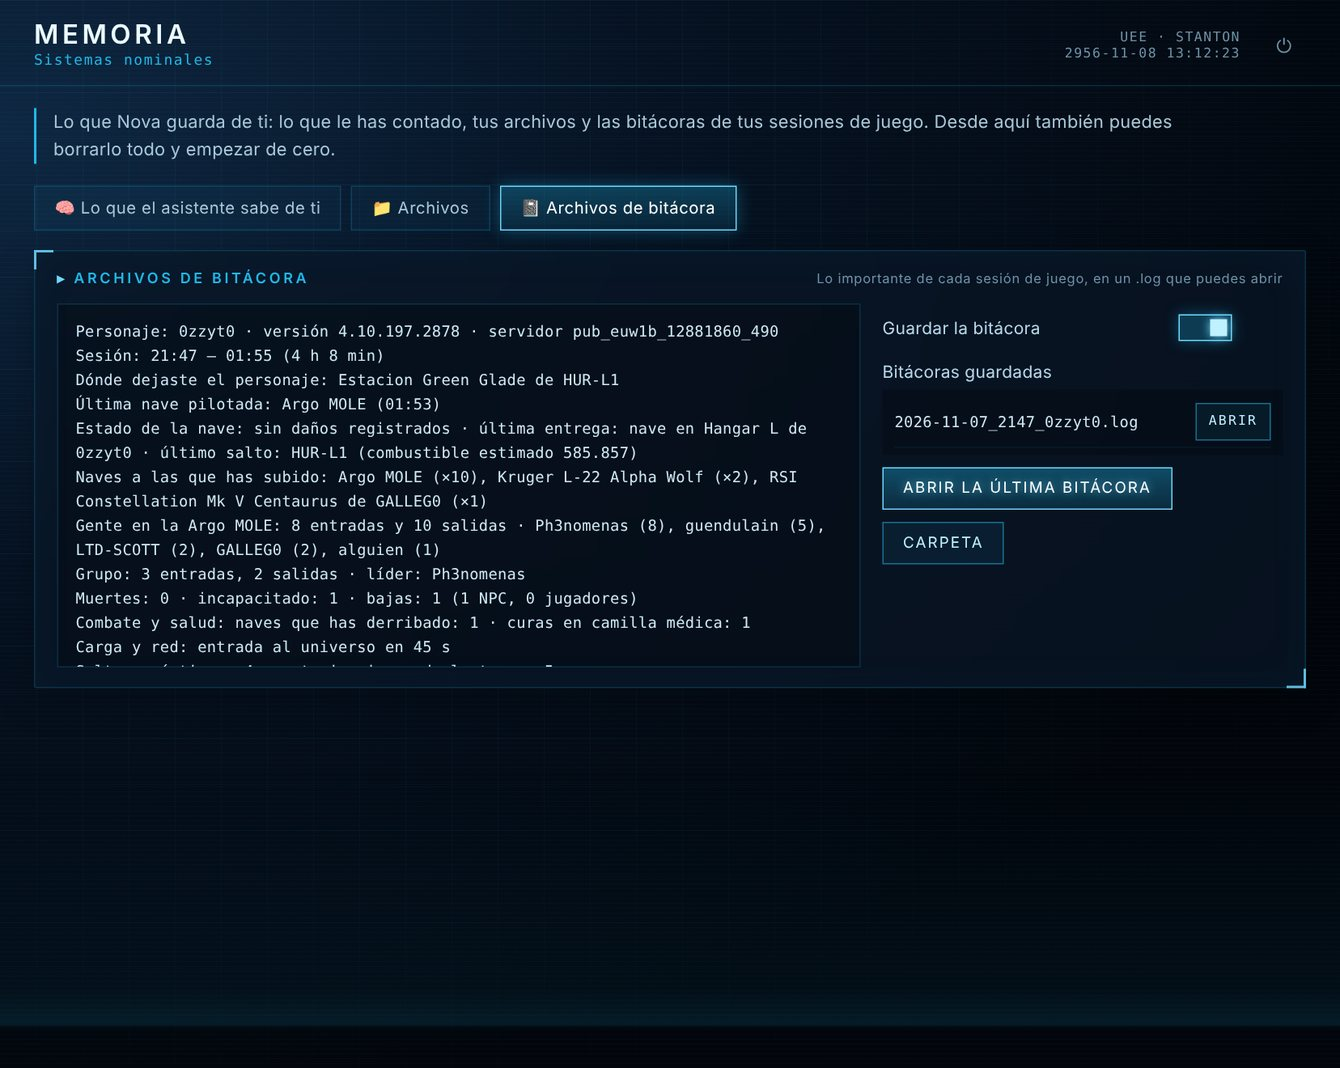
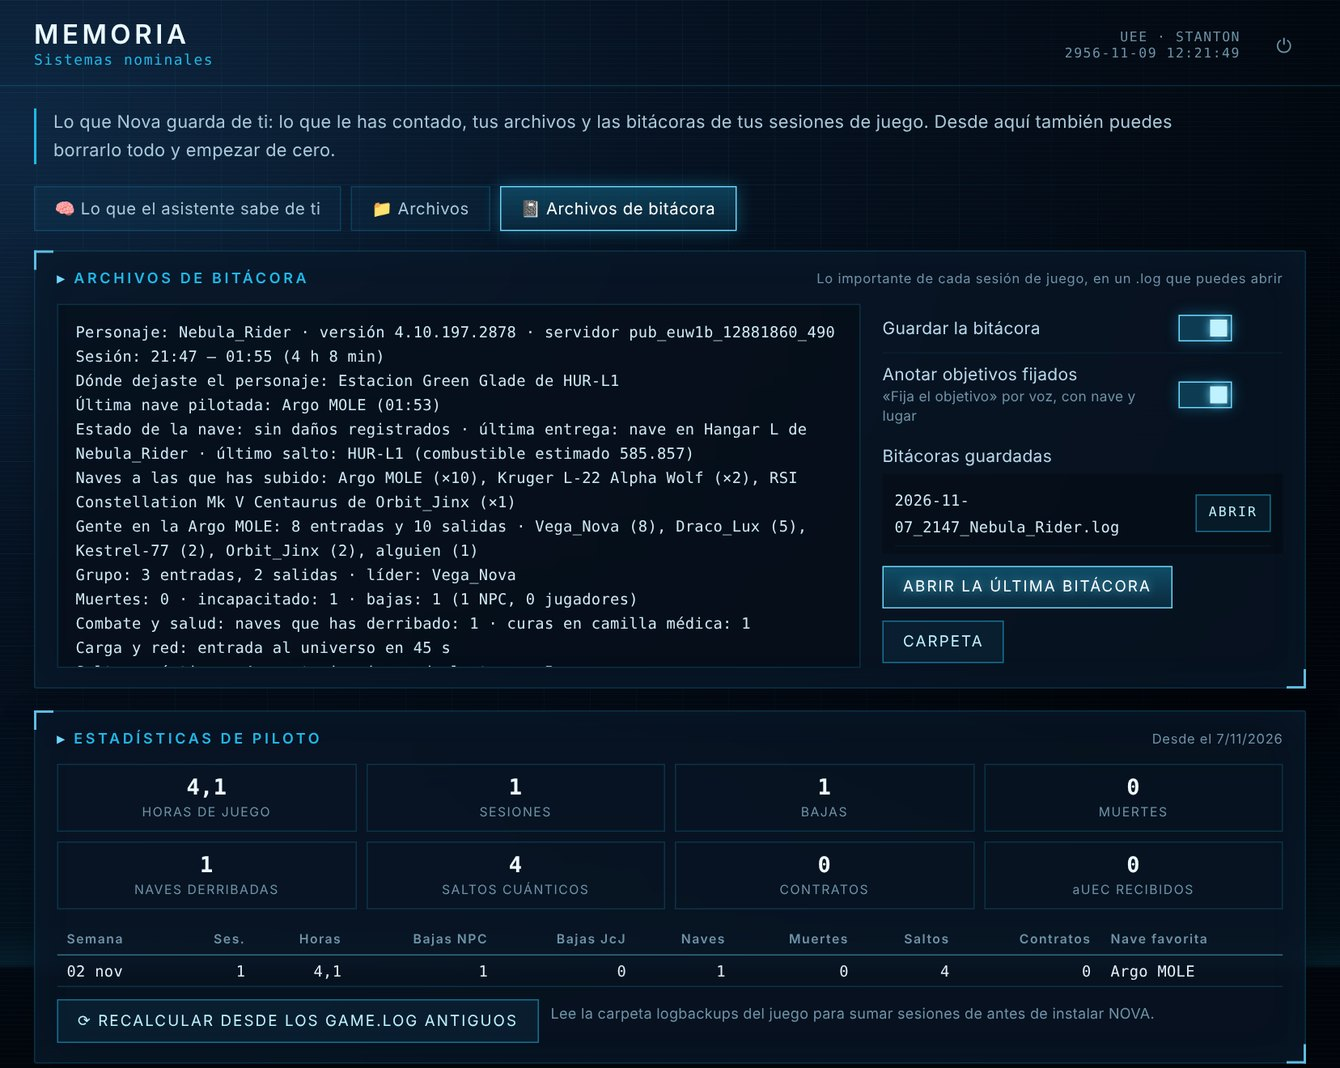
Fichas con datos ocultos ([REDACTED]), frases de entrenamiento al azar y ejemplos ficticios
- Si RSI muestra un dato del jugador o de su organización como [REDACTED], la ficha lo marca
  como oculto y Nova avisa en voz de qué información está oculta.
- Entrenamiento del oído: 3 frases al azar sobre Star Citizen (una con muchas vocales seguidas,
  otra con ñ, ll, y, b, v, g, j, n y m, y otra que mezcla ambas).
- Documentación y capturas con jugadores de ejemplo ficticios.

Claude-Session: https://claude.ai/code/session_0187yjVjvMt5N21DENDTMtCJ

diff --git a/core/rsi.py b/core/rsi.py
@@ -72,6 +72,20 @@ def _labelled(page: str, label: str) -> str:
     return ""
 
 
+HIDDEN_TEXT = "Oculto (aparece como [REDACTED] en RSI)"
+
+
+def redacted(value: str) -> bool:
+    """RSI enseña «[REDACTED]» en lo que el jugador o la organización ocultan."""
+    return "REDACTED" in (value or "").upper()
+
+
+def shown(value: str, empty: str = "—") -> str:
+    if redacted(value):
+        return HIDDEN_TEXT
+    return value or empty
+
+
 def es_date(enlisted: str) -> str:
     """'Apr 20, 2016' -> '20 abr 2016'."""
     m = re.match(r"([A-Za-z]{3})[a-z]*\.? (\d{1,2}), (\d{4})", enlisted or "")
@@ -116,30 +130,40 @@ class Citizen:
         """Los campos que pide la ficha, en orden."""
         o = self.org
         if o.oculta:
-            main = "Oculta (el jugador no la muestra)"
+            main = "Oculta (aparece como [REDACTED] en RSI)"
         elif o.sid or o.nombre:
             main = f"{o.nombre or o.sid} [{o.sid}]" + (f" · rango: {o.rango}" if o.rango else "")
         else:
             main = "Sin organización principal"
-        return [("Apodo en juego", self.apodo_juego or self.handle), ("HandleName", self.handle),
-                ("UEE Citizen Record", self.expediente or "—"),
-                ("Fecha de alta (Enlisted)", f"{self.alta} ({es_date(self.alta)})" if self.alta else "—"),
-                ("Fluency (Idioma)", es_langs(self.idiomas) or "—"), ("Main Organization", main)]
+        alta = shown(self.alta) if redacted(self.alta) or not self.alta else f"{self.alta} ({es_date(self.alta)})"
+        idiomas = shown(self.idiomas) if redacted(self.idiomas) else (es_langs(self.idiomas) or "—")
+        return [("Apodo en juego", shown(self.apodo_juego or self.handle)), ("HandleName", shown(self.handle)),
+                ("UEE Citizen Record", shown(self.expediente)),
+                ("Fecha de alta (Enlisted)", alta),
+                ("Fluency (Idioma)", idiomas), ("Main Organization", main)]
+
+    def hidden_fields(self) -> list[str]:
+        """Lo que aparece como [REDACTED] (oculto) en la ficha del jugador o de su organización."""
+        out = [k for k, v in self.lines() if v.startswith("Oculta") or v == HIDDEN_TEXT]
+        out += [f"organización · {k.lower()}" for k, v in self.org_lines() if v == HIDDEN_TEXT]
+        return out
 
     def org_lines(self) -> list[tuple[str, str]]:
         o = self.org
         if not (o.sid and not o.oculta and (o.miembros or o.etiquetas or o.actividad_principal)):
             return []
-        out = [("Organización", f"{o.nombre} [{o.sid}]")]
+        out = [("Organización", f"{shown(o.nombre)} [{o.sid}]" if not redacted(o.nombre) else HIDDEN_TEXT)]
         if o.miembros:
-            out.append(("Miembros", o.miembros))
+            out.append(("Miembros", shown(o.miembros)))
         if o.etiquetas:
-            out.append(("Tipo", " · ".join(o.etiquetas)))
-        acts = " / ".join(x for x in (o.actividad_principal, o.actividad_secundaria) if x)
+            tags = [t for t in o.etiquetas if not redacted(t)]
+            out.append(("Tipo", " · ".join(tags) if tags else HIDDEN_TEXT))
+        acts = [x for x in (o.actividad_principal, o.actividad_secundaria) if x]
         if acts:
-            out.append(("Actividad", acts))
+            out.append(("Actividad", HIDDEN_TEXT if all(redacted(x) for x in acts)
+                        else " / ".join(x for x in acts if not redacted(x))))
         if o.descripcion:
-            out.append(("Descripción", o.descripcion))
+            out.append(("Descripción", shown(o.descripcion)))
         out.append(("Página de la org", o.url))
         return out
 
@@ -198,6 +222,8 @@ def parse_citizen(page: str, handle: str) -> Citizen:
         i = next((i for i, ln in enumerate(lines) if ln.lower() == "main organization"), -1)
         if i >= 0 and i + 1 < len(lines) and lines[i + 1] != "Spectrum Identification (SID)":
             o.nombre = lines[i + 1]
+    if redacted(o.sid) or redacted(o.nombre):  # organización principal tapada con [REDACTED]
+        o.oculta, o.sid, o.nombre, o.rango = True, "", "", ""
     if o.sid and not o.nombre:
         o.nombre = o.sid
     if re.search(r"(?i)\bno main org|has no main org|NO ORG", _text(scope)) and not o.sid:
@@ -217,6 +243,8 @@ def parse_org(page: str, sid: str) -> Org:
     m = re.search(r"(\d[\d,.]*)\s+members?\b", txt, re.I)
     if m:
         o.miembros = m.group(1)
+    elif re.search(r"(?i)\[?REDACTED\]?\s+members?\b", txt):
+        o.miembros = "[REDACTED]"
     m = re.search(r'<ul[^>]*class="[^"]*\btags\b[^"]*"[^>]*>(.*?)</ul>', page, re.S)
     if m:
         o.etiquetas = [t for t in (_text(x) for x in re.findall(r"<li[^>]*>(.*?)</li>", m.group(1), re.S)) if t]

diff --git a/core/training.py b/core/training.py
@@ -65,6 +65,46 @@ def check_exercise(heard: str, name: str, names: list[str]) -> dict:
     return {"ok": False, "note": "He oído otra cosa. Di solo mi nombre, despacio y claro."}
 
 
+# ------------------------------------------------------------ frases del entrenamiento
+# Se eligen al azar al empezar la configuración: una con muchas vocales seguidas (hiatos y diptongos,
+# para que el oído capte bien la vocalización), otra con ñ, ll, y, b, v, g, j, n y m, y otra que mezcla las dos.
+PHRASES_VOWELS = [
+    "{nombre}, aún oigo el aeropuerto de Área Dieciocho y huelo a aceite.",
+    "{nombre}, la euforia aérea aumenta cuando aterrizo la Aurora en Orison.",
+    "{nombre}, ahí iba a aparecer una Idris aliada; oí su aviso en Euterpe.",
+    "{nombre}, guía a la Aurora hacia el área de aduanas; oía ruidos en el aire.",
+    "{nombre}, aquí el piloto: la Aquila aúlla al oeste de Daymar.",
+    "{nombre}, ¿oíste? Hay oro e iones en la órbita; aeronave lista para aterrizar.",
+    "{nombre}, aún huele a ozono; el cuántico aguanta hasta Hurston.",
+]
+PHRASES_CONSONANTS = [
+    "{nombre}, mañana llevo mi Vanguard y un Gladius bajo la nieve de Yela.",
+    "{nombre}, ya llegó mi compañero en la Vulture; viajamos juntos con la Banu Merchantman.",
+    "{nombre}, la señal de ayuda llega de un jugador bajo el hielo de Yela; vamos ya en la Gladius.",
+    "{nombre}, llevo un año viajando en mi Avenger bajo la lluvia de Magnus y nunca me engaña el radar.",
+    "{nombre}, el viejo cañón ya brilla; baja y vigila la montaña de Hurston.",
+    "{nombre}, mi pequeña Mustang lleva gemas y joyas bajo la nave; vigila y ayúdame.",
+]
+PHRASES_MIXED = [
+    "{nombre}, aquel jugador iba hacia la montaña; llévame ya en la Cutlass Black.",
+    "{nombre}, oye, ayúdame: llevo veinte cajas de oro bajo la niebla y mañana viajo a Pyro.",
+    "{nombre}, aún huele a gasolina; ya llegué con la Avenger al hangar de Lorville.",
+    "{nombre}, oía a mi compañero gritar: baja ya, el Vanduul nos aleja de la luna.",
+    "{nombre}, la Reclaimer aguanta; mañana llevamos el botín y la joya al aeropuerto de New Babbage.",
+]
+OLD_DEFAULT_PHRASES = [  # las fijas de la 1.0: si siguen guardadas, se usan las nuevas al azar
+    "{nombre}, mi nombre es {piloto}.",
+    "{nombre}, mi nave favorita es la Anvil Paladin.",
+    "{nombre}, pertenezco a la organización Espada del Alba de Star Citizen.",
+]
+
+
+def random_phrases(rng=None) -> list[str]:
+    import random
+    r = rng or random.SystemRandom()
+    return [r.choice(PHRASES_VOWELS), r.choice(PHRASES_CONSONANTS), r.choice(PHRASES_MIXED)]
+
+
 def check_phrase(heard: str, expected: str, name: str, names: list[str]) -> dict:
     """Frase de entrenamiento: «{nombre}, mi nave favorita es…»."""
     h = simplify(heard)

diff --git a/core/extras.py b/core/extras.py
@@ -25,7 +25,7 @@ def is_lookup(norm: str) -> bool:
 
 
 def handle_in(text: str) -> str:
-    """Apodo escrito en la misma frase («búscame al jugador 0zzyt0»), o ''."""
+    """Apodo escrito en la misma frase («búscame al jugador Nebula_Rider»), o ''."""
     m = HANDLE_AFTER.search(text or "")
     if not m:
         return ""
@@ -43,22 +43,30 @@ def clean_handle(text: str) -> str:
 
 def spoken(c: Citizen, t: str) -> str:
     """Resumen corto para decir en voz alta (la ficha completa va al chat)."""
-    who = c.apodo_juego or c.handle
+    from .rsi import redacted
+    who = c.handle if redacted(c.apodo_juego) or not c.apodo_juego else c.apodo_juego
     parts = [f"Ficha de {who}" + (f", handle {c.handle}" if c.handle and c.handle != who else "")]
-    if c.alta:
+    if c.alta and not redacted(c.alta):
         parts.append(f"alta en {es_date(c.alta)}")
-    if c.idiomas:
+    if c.idiomas and not redacted(c.idiomas):
         from .rsi import LANGS
         langs = [LANGS.get(x.strip().lower(), x.strip()) for x in c.idiomas.split(",") if x.strip()]
         parts.append("habla " + (" y ".join([", ".join(langs[:-1]), langs[-1]]) if len(langs) > 1 else langs[0]))
     o = c.org
     if o.oculta:
-        parts.append("organización principal oculta")
+        parts.append("la organización principal la tiene oculta")
     elif o.nombre or o.sid:
         parts.append(f"organización {o.nombre or o.sid}" + (f", {o.miembros} miembros" if o.miembros else ""))
     else:
         parts.append("sin organización principal")
-    return parts[0] + (": " + ", ".join(parts[1:]) if len(parts) > 1 else "") + f". Tiene la ficha completa en pantalla, {t}."
+    text = parts[0] + (": " + ", ".join(parts[1:]) if len(parts) > 1 else "") + "."
+    hidden = [h for h in c.hidden_fields() if h != "Main Organization"]
+    if hidden:
+        nice = {"Apodo en juego": "el apodo en juego", "HandleName": "el handle", "UEE Citizen Record": "el expediente",
+                "Fecha de alta (Enlisted)": "la fecha de alta", "Fluency (Idioma)": "los idiomas"}
+        said = [nice.get(h, h) for h in hidden]
+        text += f" Ojo: tiene oculta en RSI esta información: {', '.join(said)}."
+    return text + f" Tiene la ficha completa en pantalla, {t}."
 
 
 def diary_detail(c: Citizen) -> str:

diff --git a/gui/server.py b/gui/server.py
@@ -508,9 +508,16 @@ class UIServer:
 
     # --- configuración inicial y entrenamiento del oído
     def _phrases(self) -> list[str]:
+        """Frases del entrenamiento: las tuyas si las cambiaste; si no, 3 al azar sobre Star Citizen
+        (se eligen al empezar la configuración y no cambian hasta la siguiente)."""
+        from core.training import OLD_DEFAULT_PHRASES, random_phrases
         s = self.nova.settings
         name, pilot = s.get("nombre_asistente"), s.get("nombre_piloto") or s.get("tratamiento")
-        frases = s.get("frases_entrenamiento") or DEFAULTS["frases_entrenamiento"]
+        frases = s.get("frases_entrenamiento") or []
+        if not frases or frases == OLD_DEFAULT_PHRASES:
+            if not getattr(self, "_random_phrases", None):
+                self._random_phrases = random_phrases()
+            frases = self._random_phrases
         return [f.replace("{nombre}", name).replace("{piloto}", pilot) for f in frases][:6]
 
     def _setup_info(self) -> dict:
@@ -590,6 +597,7 @@ class UIServer:
         return r
 
     def api_setup_finish(self) -> dict:
+        self._random_phrases = None  # la próxima configuración tendrá frases nuevas al azar
         n, s = self.nova, self.nova.settings
         sens = calibrate(self._setup_samples)
         if sens is not None:

diff --git a/core/config.py b/core/config.py
@@ -112,11 +112,7 @@ DEFAULTS: dict = {
     "tratamiento": "señor",
     "asistente_completado": False,  # False = al abrir sale la ventana de configuración inicial
     "nombre_variantes": [],  # cómo escribe Whisper el nombre cuando TÚ lo dices (aprendido)
-    "frases_entrenamiento": [
-        "{nombre}, mi nombre es {piloto}.",
-        "{nombre}, mi nave favorita es la Anvil Paladin.",
-        "{nombre}, pertenezco a la organización Espada del Alba de Star Citizen.",
-    ],
+    "frases_entrenamiento": [],  # vacío = 3 frases al azar sobre Star Citizen (core/training.py)
     # --- IA ---------------------------------------------------------------
     "ia_cadena": [  # se prueba en orden; si uno falla o se queda sin cuota, salta al siguiente
         {"proveedor": "gemini", "modelo": "gemini-flash-lite-latest"},

diff --git a/LEEME.md b/LEEME.md
@@ -74,10 +74,10 @@ Antes de usar nada, Nova abre una ventana para terminar de configurarse. Puedes 
 3. **¿Cómo te llamas?** («Me llamo Antonio»). Ahí eliges también cómo quieres que te trate: señor, capitán, por tu nombre…
 4. **¿Cómo quieres que me llame?** Cualquier nombre: Nova, Atenea, Jarvis… Te avisa si es muy corto o una palabra demasiado común, porque se activaría sin querer.
 5. **Ejercicios de sonido:** «Perfecto, mi nombre es Atenea. Vamos a entrenar mis oídos…». Pulsa «Escuchar cómo suena» y después **di solo su nombre tres veces**.
-6. **Lee 3 frases** que contienen su nombre:
-   - «Atenea, mi nombre es Antonio.»
-   - «Atenea, mi nave favorita es la Anvil Paladin.»
-   - «Atenea, pertenezco a la organización Espada del Alba de Star Citizen.»
+6. **Lee 3 frases** sobre Star Citizen que empiezan por su nombre. Se eligen **al azar** cada vez que haces la configuración:
+   - una con **muchas vocales seguidas**, para que capte bien tu vocalización: «Atenea, aún oigo el aeropuerto de Área Dieciocho y huelo a aceite.»
+   - otra con **ñ, ll, y, b, v, g, j, n y m**, los sonidos que más le cuestan: «Atenea, la señal de ayuda llega de un jugador bajo el hielo de Yela; vamos ya en la Gladius.»
+   - y otra que mezcla las dos: «Atenea, oye, ayúdame: llevo veinte cajas de oro bajo la niebla y mañana viajo a Pyro.»
 7. **Listo:** resumen. Opcional: tu clave gratis de Gemini.
 
 **Lo que aprende:**
@@ -245,7 +245,7 @@ Los avisos se ponen en cola: no se pierden aunque Nova esté hablando. Si uno ll
 
 ## 7 ter. Archivos de Bitácora
 
-Cada sesión de juego queda apuntada en un archivo `.log` que puedes abrir con el Bloc de notas, en `%LOCALAPPDATA%\NOVA AI\datos\diario\` (por ejemplo `2026-11-07_2147_0zzyt0.log`). En **Memoria → Archivos de bitácora** ves el resumen de la sesión y las bitácoras guardadas (se conservan las 60 últimas).
+Cada sesión de juego queda apuntada en un archivo `.log` que puedes abrir con el Bloc de notas, en `%LOCALAPPDATA%\NOVA AI\datos\diario\` (por ejemplo `2026-11-07_2147_Nebula_Rider.log`). En **Memoria → Archivos de bitácora** ves el resumen de la sesión y las bitácoras guardadas (se conservan las 60 últimas).
 
 **Cada línea:** la hora y lo que pasó: llegadas, saltos, subir y bajar de naves, quién entra y sale de tu nave y del grupo, la torre, amistades, contratos, planos, heridas…
 
@@ -270,7 +270,7 @@ Sale del propio Game.log: si abres Nova con la partida empezada o después de ju
 
 ## 7 octies. Novedades de la versión 1.1
 
-- **Buscar jugadores.** Di «Nova, localízame a un jugador» o «búscame a un jugador»: te pedirá que **escribas el apodo** en el cuadro de texto de la Cabina (por voz se entendería mal). Lee su ficha pública en `robertsspaceindustries.com/en/citizens/APODO` y te da: Apodo en juego, HandleName, UEE Citizen Record, Fecha de alta (Enlisted), Fluency (idioma) y Main Organization; después abre `robertsspaceindustries.com/en/orgs/ORG` (miembros, tipo, actividad). La ficha se guarda en la bitácora (etiqueta `JUGADOR`) y, si pegas un webhook en **Fuentes de datos › Discord**, se manda a ese canal. Si hay cualquier error o la ficha no trae esos datos: «Usuario no encontrado, ¿Está bien escrito el apodo?». También vale escribirlo de una vez: «búscame al jugador 0zzyt0».
+- **Buscar jugadores.** Di «Nova, localízame a un jugador» o «búscame a un jugador»: te pedirá que **escribas el apodo** en el cuadro de texto de la Cabina (por voz se entendería mal). Lee su ficha pública en `robertsspaceindustries.com/en/citizens/APODO` y te da: Apodo en juego, HandleName, UEE Citizen Record, Fecha de alta (Enlisted), Fluency (idioma) y Main Organization; después abre `robertsspaceindustries.com/en/orgs/ORG` (miembros, tipo, actividad). La ficha se guarda en la bitácora (etiqueta `JUGADOR`) y, si pegas un webhook en **Fuentes de datos › Discord**, se manda a ese canal. Si hay cualquier error o la ficha no trae esos datos: «Usuario no encontrado, ¿Está bien escrito el apodo?». Si el jugador o su organización tienen algún dato oculto (RSI lo muestra como `[REDACTED]`), Nova te avisa de que esa información está oculta. También vale escribirlo de una vez: «búscame al jugador Nebula_Rider».
 - **Temporizadores** para refinados, contratos o lo que quieras: «avísame en 3 horas y 20 minutos, el refinado de ARC-L1». Se ven en la Cabina, se crean también a mano y **siguen aunque cierres Nova** (si terminan con ella cerrada, te lo dice al volver). Quedan en la bitácora (`TEMPORIZADOR`).
 - **Rutas de comercio con beneficio real:** con los precios de UEX, Nova calcula cuántas SCU caben en la nave en la que vas (o la que le digas), el stock del origen, la demanda del destino y tu dinero, y ordena por lo que ganas de verdad. Si no sabe tu nave, usa la «Bodega por defecto» de Fuentes de datos.
 - **Perfiles de nave:** en **Juego › Perfiles de nave**, cada nave puede tener sus propios avisos en voz. En el editor de comandos, **Solo en estas naves** limita un comando a ciertas naves (y deja usar la misma frase con teclas distintas en cada una).
